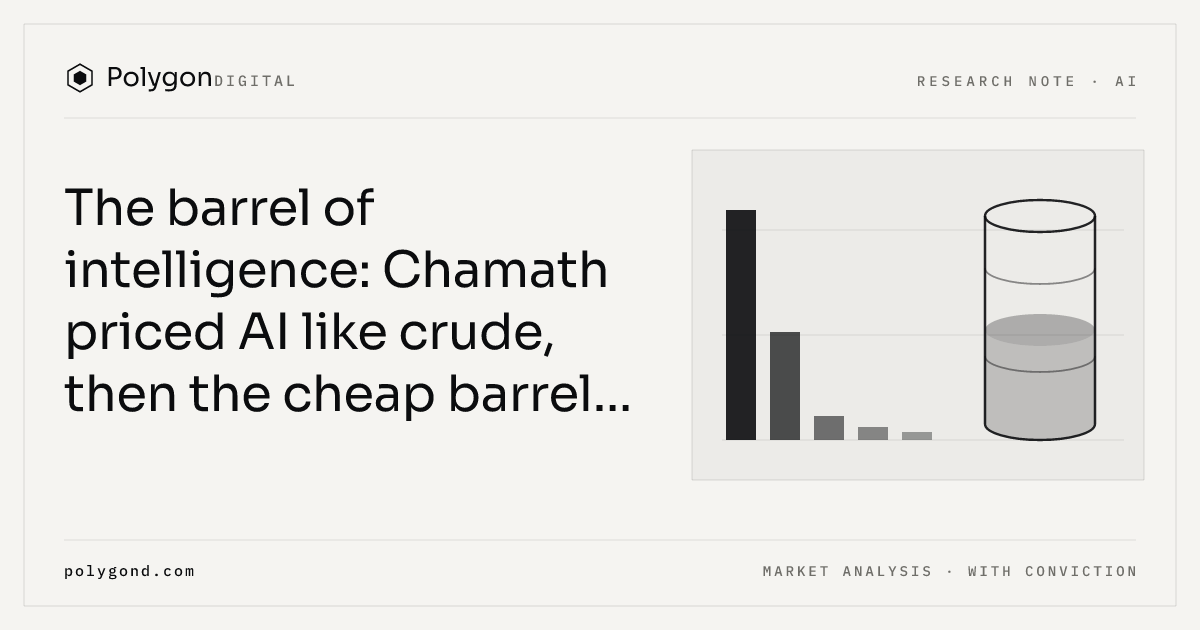
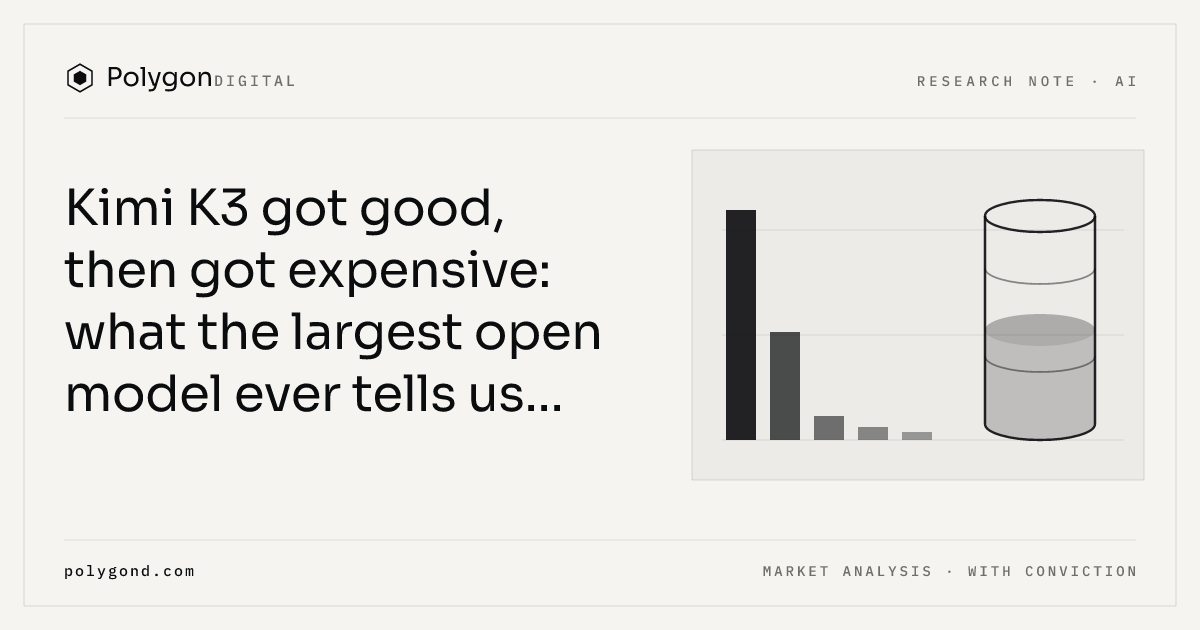
Rework: lead with Kimi K3, use the barrel framing as the lens
The premise is now the model itself: what K3 posted, that it tripled its
price, and that the weights landed today. Chamath's barrel-of-intelligence
board enters in the pricing section as the unit of account rather than as
the opening argument.

Changed region(s): [[0.0308, 0.3016, 0.5242, 0.6635]]

diff --git a/src/posts/the-barrel-of-intelligence.md b/src/posts/the-barrel-of-intelligence.md
@@ -1,19 +1,36 @@
 ---
-title: "The barrel of intelligence: Chamath priced AI like crude, then the cheap barrel raised its price"
+title: "Kimi K3 got good, then got expensive: what the largest open model ever tells us about the price of intelligence"
 date: 2026-07-27
-summary: On CNBC, Chamath Palihapitiya priced a million tokens as a barrel of intelligence and showed a spread running from 50 cents to 56 dollars. Two days later Moonshot released Kimi K3, tripled its price to match Claude Sonnet, and landed fourth in the world. Today the weights went public. Here is why the deflation he predicted is real but arriving from a direction nobody priced, and why crude grades matter more than crude prices.
+summary: Moonshot released Kimi K3 on July 16, published the weights this morning, and in between did something nobody expected from a Chinese lab. It tripled its price. The model placed fourth of 189 on the independent intelligence index and now lists at Claude Sonnet rates. Here is what that says about what a unit of intelligence is actually worth, why the deflation everyone is waiting for arrives through downloads rather than rate cards, and why the grade of the barrel matters more than the price of it.
 tags: ai, tokens, markets
 ---
 
-<p class="article-dek">On July 14, Chamath Palihapitiya did something useful on CNBC. He stopped describing AI as a technology and started pricing it as a commodity. One barrel of intelligence, he said, is one million tokens. Crude was near $80. And the barrel of intelligence ran from 50 cents to 56 dollars depending on whose pump you pulled up to.</p>
+<p class="article-dek">Kimi K3 shipped on July 16 as the largest open-weight model ever built: 2.8 trillion parameters, a million-token context window, fourth of 189 models on the independent intelligence index. This morning Moonshot published the weights. Somewhere between those two events the model did something no one had it priced for. It got more expensive.</p>
 
-<p class="lead">Two days later Moonshot AI released Kimi K3 and the 50 cent barrel raised its price to three dollars. That sounds like a contradiction. It is actually the confirmation. Our read: the rationalization Chamath called for is coming, but it is not arriving as a price war between labs. It arrives as a file on Hugging Face, which landed this morning. And once you follow the metaphor all the way down, the interesting question stops being what a barrel costs and becomes what grade of crude you just bought. We wrote the market side of this release in <a href="/blog/the-kimi-shock">the Kimi shock</a>; this is the pricing side, and it extends the argument we made in <a href="/blog/the-token-economy">the token paradox</a>.</p>
+<p class="lead">Our thesis in one sentence: K3 is the moment near-frontier capability stopped being a discount product, and the price move tells you more about where this market is heading than the benchmark table does. We covered the market reaction to this release in <a href="/blog/the-kimi-shock">the Kimi shock</a>. This note is about the number on the rate card, what it says about the cost of a unit of intelligence, and the thing almost nobody is pricing: that not all units are the same grade. It extends the argument we made in <a href="/blog/the-token-economy">the token paradox</a>.</p>
 
-## The price board
+## What K3 actually posted
 
-The framing is worth quoting because the numbers do the work. "You can buy it from OpenAI for 26 bucks. Anthropic's latest model costs you 56 bucks." Then the other side of the board: "Elon is selling you a barrel of intelligence for a buck. Zuck is about to sell it to you for a buck 50. Demis and Sundar are trying to sell it to you for a dollar. The Chinese will sell it to you for $0.50."<sup class="cite"><a href="#fn1">1</a></sup><sup class="cite"><a href="#fn2">2</a></sup>
+The benchmark sheet is genuinely strong, and strong in the places that matter commercially rather than academically.
 
-A hundredfold spread on what is nominally the same product. No commodity market on earth sustains that.
+K3 sits **fourth of 189 models** on the Artificial Analysis Intelligence Index, the highest any open-weight model has ever placed, trailing only Claude Fable 5 and two GPT-5.6 Sol variants. It took **first place on LMArena's Frontend Code arena** with an Elo of 1,679, beating Claude Fable 5 in 76% of blind head-to-head matchups judged by human developers. Its predecessor sat at number 18 on that same board. It ranks **first on SaaS workflow automation and first on legal task automation**, and third on GDPval-AA v2, the benchmark built to measure real economic work across 44 occupations.<sup class="cite"><a href="#fn3">3</a></sup>
+
+<div class="stat-band">
+<div class="stat"><span class="stat-v">#4 of 189</span><span class="stat-l">Artificial Analysis Intelligence Index, highest open-weight model ever<sup class="cite"><a href="#fn3">3</a></sup></span></div>
+<div class="stat"><span class="stat-v">1,679</span><span class="stat-l">Elo on LMArena Frontend Code, first place, up from #18 for K2.6<sup class="cite"><a href="#fn3">3</a></sup></span></div>
+<div class="stat"><span class="stat-v">3x</span><span class="stat-l">Input price increase from K2.6 to K3<sup class="cite"><a href="#fn4">4</a></sup></span></div>
+<div class="stat"><span class="stat-v">~594 GB</span><span class="stat-l">Quantized open weights, published today under a permissive license<sup class="cite"><a href="#fn5">5</a></sup></span></div>
+</div>
+
+That is not the profile of a cheap substitute. It is the profile of a product.
+
+## Then it raised its price
+
+Kimi K3 lists at **$3 per million input tokens and $15 per million output**, with cached input at 30 cents. K2.6 listed at $0.95 and $4.<sup class="cite"><a href="#fn4">4</a></sup> Threefold on input, nearly fourfold on output, landing precisely on Claude Sonnet 5's rate card.
+
+The reflex reading is that Chinese labs are the deflation engine and everything drifts toward pennies. Moonshot just declined the role. It did not price at 50 cents because it no longer has to. The discount was never a strategy. It was a position, and K3 was the model that let the company leave it.
+
+To see why that matters, it helps to have a unit of account, and the best one on offer arrived two days before K3 shipped. On CNBC on July 14, Chamath Palihapitiya priced generative AI the way you would price crude: one barrel of intelligence equals one million tokens. Crude was trading near $80. The barrel of intelligence, he pointed out, was trading anywhere you liked. "You can buy it from OpenAI for 26 bucks. Anthropic's latest model costs you 56 bucks." And on the other side of the board: "Elon is selling you a barrel of intelligence for a buck. Zuck is about to sell it to you for a buck 50. Demis and Sundar are trying to sell it to you for a dollar. The Chinese will sell it to you for $0.50."<sup class="cite"><a href="#fn1">1</a></sup><sup class="cite"><a href="#fn2">2</a></sup>
 
 <figure class="fig">
 <p class="fig-title">A hundredfold spread on the same barrel</p>
@@ -67,36 +84,21 @@ A hundredfold spread on what is nominally the same product. No commodity market 
 <p class="fig-note">Kimi K3's actual list price is ours, added for context. Every other figure is as cited on air. Prices quoted on television are approximate, blend input and output, and move constantly.</p>
 </figure>
 
-The forward call attached to that board was specific: eventually a company misses earnings by a few cents and traces it straight back to buying $50 barrels when $1 barrels were on the shelf. He was careful to note it "hasn't happened yet."<sup class="cite"><a href="#fn2">2</a></sup>
+A hundredfold spread on what is nominally the same commodity. The forward call attached to it was specific: eventually a company misses earnings by a few cents and traces it straight back to buying $50 barrels when $1 barrels were on the shelf. He was careful to note it "hasn't happened yet."<sup class="cite"><a href="#fn2">2</a></sup>
 
-## Then the cheap barrel raised its price
-
-Here is where the thesis got tested faster than anyone expected.
-
-Kimi K3 shipped on July 16 at **$3 per million input tokens and $15 per million output**, with cached input at 30 cents. Its predecessor, K2.6, listed at $0.95 and $4.<sup class="cite"><a href="#fn4">4</a></sup> That is a threefold increase on input and nearly fourfold on output, landing the model precisely on Claude Sonnet 5's rate card.
-
-<div class="stat-band">
-<div class="stat"><span class="stat-v">3x</span><span class="stat-l">Input price increase from Kimi K2.6 to K3<sup class="cite"><a href="#fn4">4</a></sup></span></div>
-<div class="stat"><span class="stat-v">#4 of 189</span><span class="stat-l">Artificial Analysis Intelligence Index, highest open-weight model ever<sup class="cite"><a href="#fn3">3</a></sup></span></div>
-<div class="stat"><span class="stat-v">1,679</span><span class="stat-l">Elo on LMArena Frontend Code, first place, up from #18 for K2.6<sup class="cite"><a href="#fn3">3</a></sup></span></div>
-<div class="stat"><span class="stat-v">~594 GB</span><span class="stat-l">Quantized open weights, published today under a permissive license<sup class="cite"><a href="#fn5">5</a></sup></span></div>
-</div>
-
-The lazy reading of Chamath's board is that Chinese labs are the deflation engine and everything eventually drifts toward 50 cents. K3 says something sharper. Moonshot did not price at 50 cents because it no longer has to. When your model places fourth of 189 on the independent intelligence index, tops the blind human vote on frontend code against Claude Fable 5 in 76% of matchups, and ranks first on legal and SaaS workflow automation, you are not selling a discount substitute anymore.<sup class="cite"><a href="#fn3">3</a></sup> You are selling the product.
-
-The 50 cent barrel was never a strategy. It was a position, and Moonshot just left it.
+Put K3 on that board and the framing does something useful. It shows you that the 50 cent slot is now empty at the top of the quality curve. The cheapest seller of genuinely near-frontier capability just repriced itself into the middle of the board.
 
 ## The deflation is real. It is not coming from the rate card.
 
-So does that kill the thesis? No. It relocates it.
+So does K3's price hike kill the deflation thesis? No. It relocates it, and this morning is when that became concrete.
 
-This morning Moonshot published the K3 weights: 2.8 trillion parameters, the largest open-weight release in history, quantized to roughly 594GB, under a permissive license.<sup class="cite"><a href="#fn5">5</a></sup> That is the actual event.
+Moonshot published the K3 weights today: 2.8 trillion parameters, quantized to roughly 594GB, under a permissive license.<sup class="cite"><a href="#fn5">5</a></sup> That is the largest open-weight release in history and the actual event of this cycle.
 
 Once a near-frontier model is a file you can download, the price of a barrel stops being a pricing decision and becomes an infrastructure question. What does it cost *you* to serve it. No lab sets that number. No rate card defends it. The floor is whoever has GPUs and the engineering depth to run a 2.8T mixture-of-experts model in production, and that floor falls on a hardware curve rather than a competitive one.
 
-Chamath's rationalization is coming. It will not look like OpenAI cutting to a dollar. It will look like a growing share of enterprise workload quietly never touching a frontier API at all.
+The rationalization is coming. It will not look like OpenAI cutting to a dollar. It will look like a growing share of enterprise workload quietly never touching a frontier API at all.
 
-And the honest version of the cost picture is not the rate card anyway. It is cost per completed task, which folds in how many tokens a model burns to get there. K3 is verbose, generating roughly double the reasoning output of a typical reasoning model, which eats into its rate-card advantage.<sup class="cite"><a href="#fn4">4</a></sup>
+The honest version of the cost picture is not the rate card anyway. It is cost per completed task, which folds in how many tokens a model burns to get there. K3 is verbose, generating roughly double the reasoning output of a typical reasoning model, which eats into its headline advantage.<sup class="cite"><a href="#fn4">4</a></sup>
 
 <figure class="fig">
 <p class="fig-title">The refined price, not the rate card</p>
@@ -140,11 +142,11 @@ And the honest version of the cost picture is not the rate card anyway. It is co
 <p class="fig-note">K3 is cheaper per task than the closed leaders, and roughly twenty times more expensive than DeepSeek V4 Pro. It collapsed the price of top-tier capability. It did not become the cheapest thing available.</p>
 </figure>
 
-## Crude has grades. So does intelligence.
+## The part the price board cannot show you
 
-This is the part of the metaphor worth sitting with, and it is where the barrel framing quietly breaks in the most instructive way.
+Here is where the commodity framing quietly breaks, and it is the most useful thing in this whole release.
 
-Crude is not one thing. There is WTI, there is Brent, there is heavy sour, and the spread between them exists because they cost different amounts to refine and yield different products. A barrel price without a grade is a number with no meaning attached.
+Crude is not one thing. There is WTI, there is Brent, there is heavy sour, and the spread between them exists because they cost different amounts to refine and yield different products. A barrel price without a grade attached is a number with no meaning.
 
 Intelligence works the same way, and K3 demonstrates it in the least flattering way possible. Its factual accuracy climbed from 33% to 46% generation over generation, which is real progress. But its non-hallucination score sits at 49%, meaning that when K3 does not know something, it fabricates a confident answer more than half the time rather than hedging or abstaining.<sup class="cite"><a href="#fn3">3</a></sup><sup class="cite"><a href="#fn6">6</a></sup>
 
@@ -188,28 +190,28 @@ Intelligence works the same way, and K3 demonstrates it in the least flattering 
 
 The grading problem runs deeper than one metric. The coding scores everyone quoted came from at least three different agent harnesses mixed into a single table. Harness choice alone moves these numbers by 10 to 26 points. Claude Opus 4.8 shows a 17.3 point spread on one benchmark depending on whose harness ran it, 69.2% versus 51.9%.<sup class="cite"><a href="#fn3">3</a></sup> The number you are comparing is never the model in isolation. It is the model plus its prompt, tools, retry logic, timeouts and context management. One analysis put the gap between lab benchmark scores and real-world deployment performance at roughly 37% across the industry.<sup class="cite"><a href="#fn6">6</a></sup>
 
-So a $56 barrel and a $3 barrel can post similar headline numbers and still be materially different grades of crude. The spread Chamath pointed at is real. Some meaningful fraction of it is also the price of a product that abstains when it does not know.
+So a $56 barrel and a $3 barrel can post similar headline numbers and still be materially different grades. The spread on the price board is real. Some meaningful fraction of it is also the price of a model that abstains when it does not know.
 
 ## The honest caveats
 
-**We are pricing off self-reported numbers.** Moonshot had not published a technical report at launch, so training data and decontamination procedures remain undisclosed.<sup class="cite"><a href="#fn3">3</a></sup> **Open weights are free to license, not free to run.** A 2.8T model at roughly 594GB quantized is a serious infrastructure commitment, and the real bill is compute, storage, networking and the engineers who can keep it up. **And the price board moves weekly.** Every figure here is a snapshot of a market repricing itself faster than anyone can publish. Underwrite the direction, not the decimal.
+**We are pricing off self-reported numbers.** Moonshot had not published a technical report at launch, so training data and decontamination procedures remain undisclosed.<sup class="cite"><a href="#fn3">3</a></sup> **Open weights are free to license, not free to run.** A 2.8T model at roughly 594GB quantized is a serious infrastructure commitment, and the real bill is compute, storage, networking and the engineers who can keep it up. **And the board moves weekly.** Every figure here is a snapshot of a market repricing itself faster than anyone can publish. Underwrite the direction, not the decimal.
 
 ## The bottom line
 
-Chamath is right that a hundredfold spread on a commodity input is not a stable equilibrium. Paying fifty times for tokens is not a defensible line item, and finance departments find those eventually.
+K3 is the clearest signal yet that near-frontier capability has stopped being scarce and started being a product decision. A Chinese lab built the largest open model in history, placed fourth in the world with it, charged Sonnet prices for it, and then gave the weights away on schedule. Each of those four facts contradicts a different assumption the market was carrying six months ago.
 
-But he priced the crude, and the value has already moved to the refinery. The scarce thing in 2026 is not access to a capable model. As of this morning that is a download. The scarce thing is knowing which grade of intelligence your specific workload can tolerate, building the harness that extracts twenty extra points from identical weights, and having the evaluation discipline to catch a 51% fabrication rate before your customers do.
+A hundredfold spread on a commodity input is not a stable equilibrium, and finance departments eventually find line items like that. But the value has already moved past the crude and into the refinery. The scarce thing in 2026 is not access to a capable model. As of this morning that is a download. The scarce thing is knowing which grade of intelligence your specific workload can tolerate, building the harness that extracts twenty extra points from identical weights, and having the evaluation discipline to catch a 51% fabrication rate before your customers do.
 
 The cheap barrels have arrived. Most companies still have no refinery.
 
 <div class="takeaways">
 <h3>The five things to remember</h3>
 <ol>
-<li><strong>The spread is the story.</strong> A million tokens costs anywhere from 50 cents to $56 depending on the seller. No commodity sustains a hundredfold spread indefinitely.</li>
-<li><strong>The cheap barrel raised its price.</strong> Kimi K3 tripled input pricing to $3 and quadrupled output to $15, matching Claude Sonnet 5, because a top-four model does not need to sell at a discount.</li>
+<li><strong>K3 is a product now, not a discount.</strong> Fourth of 189 on the independent index, first on frontend code by blind human vote, first on legal and SaaS automation.</li>
+<li><strong>It raised its price to prove it.</strong> Input tripled to $3 and output nearly quadrupled to $15, matching Claude Sonnet 5. The 50 cent slot at the top of the quality curve is now empty.</li>
+<li><strong>The spread is still the story.</strong> A million tokens costs anywhere from 50 cents to $56 depending on the seller. No commodity sustains a hundredfold spread indefinitely.</li>
 <li><strong>Deflation arrives through weights, not rate cards.</strong> With K3 open as of today, the price of near-frontier capability becomes an infrastructure question no lab controls.</li>
-<li><strong>Barrels have grades.</strong> K3 fabricates confidently 51% of the time it is uncertain, versus 36% for Opus and 28% for GLM. That gap is part of what the premium buys.</li>
-<li><strong>The refinery is the moat.</strong> Harness and evaluation choices swing benchmark results 10 to 26 points on identical weights. That is where the durable advantage now sits.</li>
+<li><strong>Barrels have grades.</strong> K3 fabricates confidently 51% of the time it is uncertain, versus 36% for Opus and 28% for GLM. Harness choices swing benchmark results another 10 to 26 points on identical weights. That is where the durable advantage sits.</li>
 </ol>
 </div>
 
